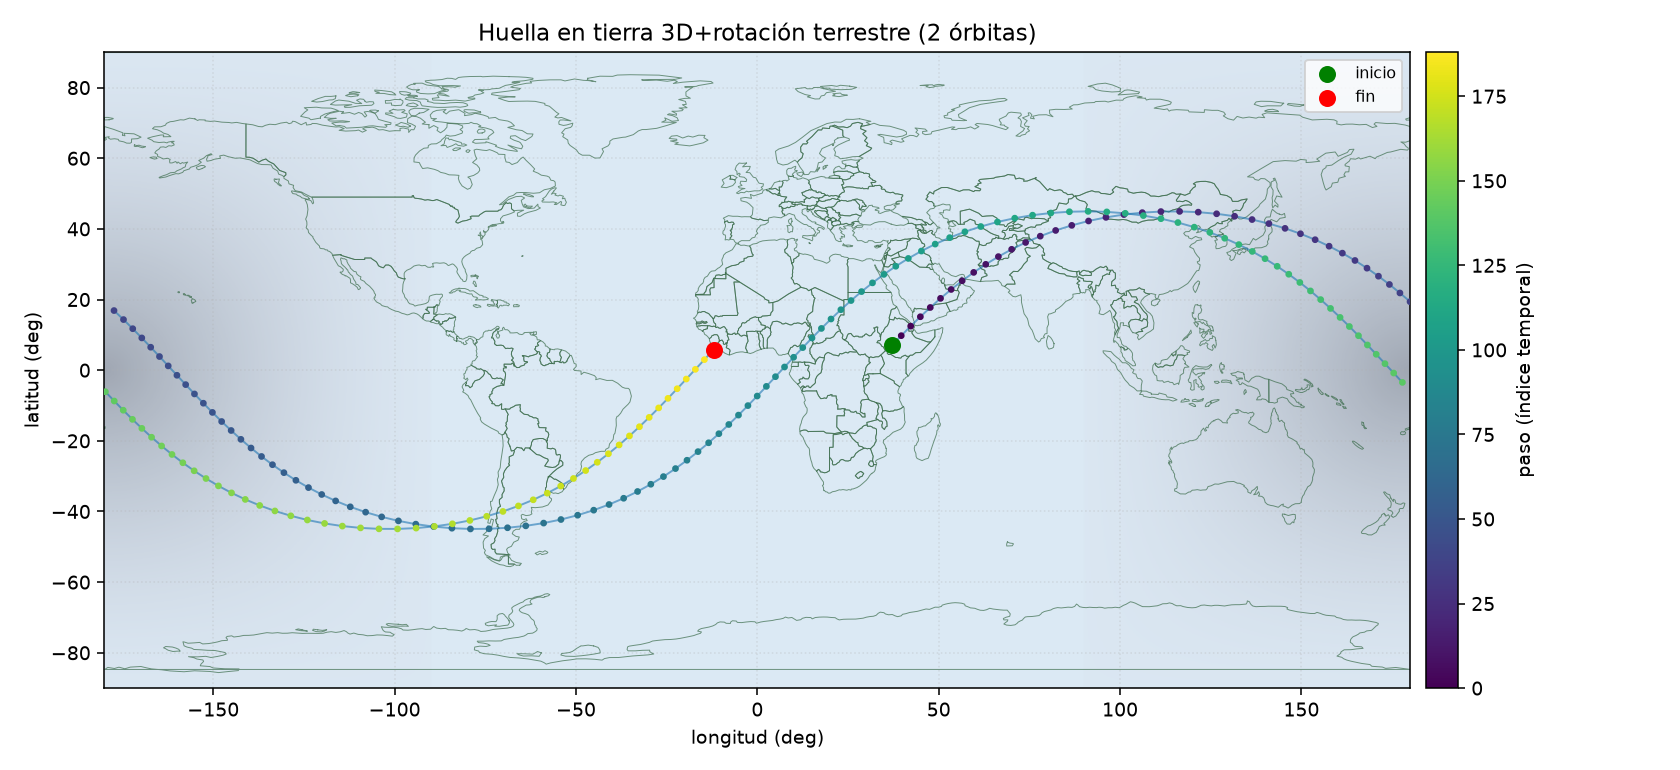
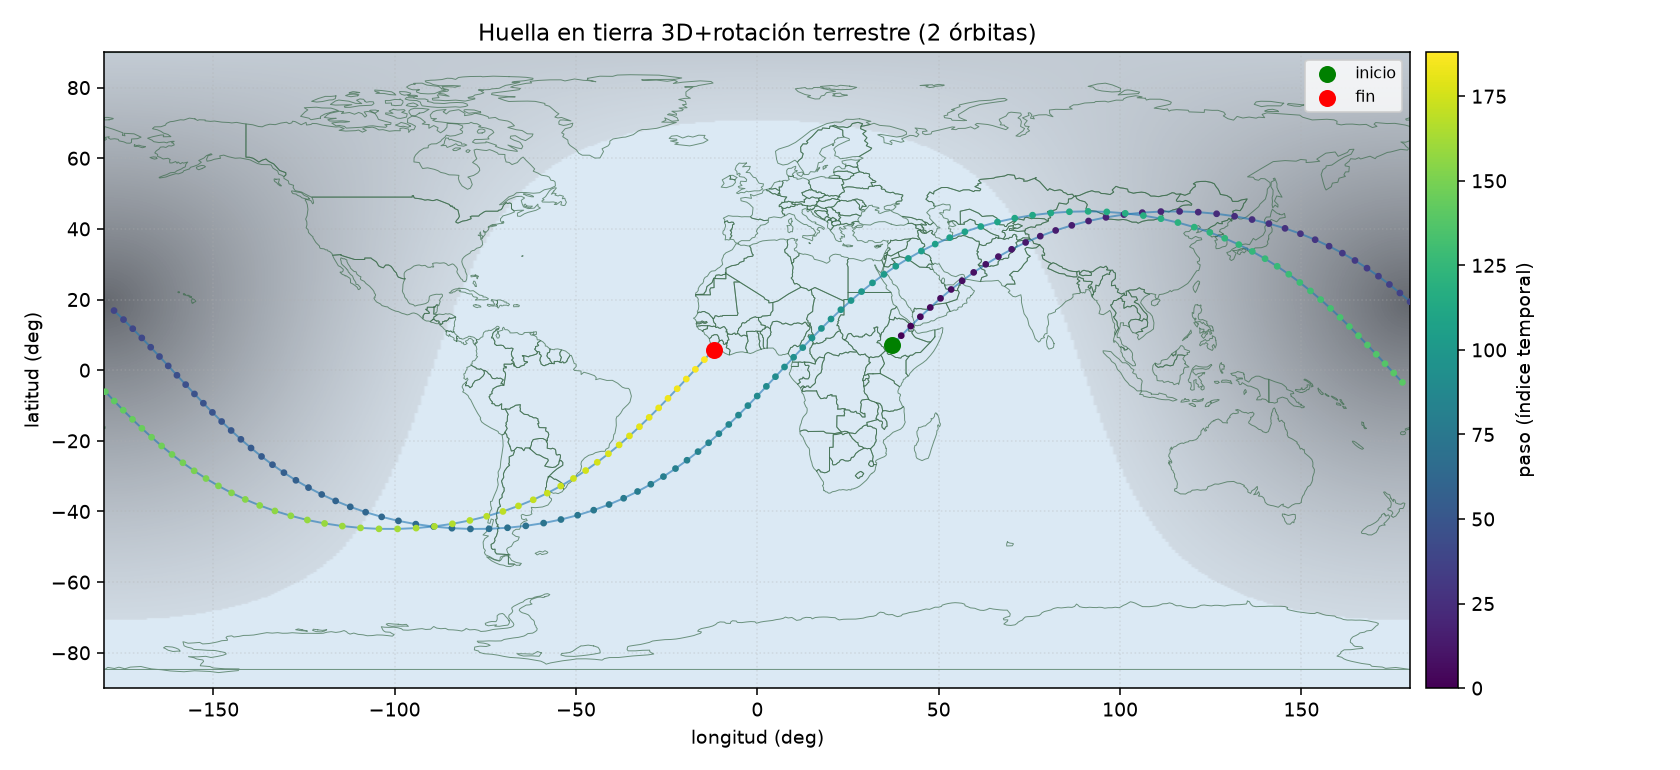
Tilted terminator using solar declination (winter); less blue, clearer day/night

Changed region(s): [[0.0619, 0.0623, 0.8357, 0.5922]]

diff --git a/src/orbitas_rt/viz.py b/src/orbitas_rt/viz.py
@@ -11,6 +11,7 @@ from __future__ import annotations
 
 import json
 import os
+from datetime import datetime
 
 import numpy as np
 import matplotlib
@@ -80,8 +81,22 @@ def _wrap_lon(lon):
     return (lon + 180.0) % 360.0 - 180.0
 
 
+def solar_declination(day_of_year=None):
+    """Declinación solar aproximada (grados) para un día del año.
+
+    Negativa en el invierno del hemisferio norte (nov-feb).
+    """
+    if day_of_year is None:
+        day_of_year = datetime.now().timetuple().tm_yday
+    return float(-23.44 * np.cos(2 * np.pi * (day_of_year + 10) / 365.25))
+
+
 def ground_track(lat_deg, lon_deg, title, path, color="#1f77b4", show_earth=True,
-                 daynight=True, subsolar_lon=0.0, subsolar_lat=0.0):
+                 daynight=True, subsolar_lon=None, subsolar_lat=None):
+    if subsolar_lon is None:
+        subsolar_lon = 0.0
+    if subsolar_lat is None:
+        subsolar_lat = solar_declination()
     """Dibuja una huella en tierra (lat/lon) sobre un mapa equirectangular simple.
 
     lat_deg, lon_deg: arrays en grados. La polilínea se corta en los saltos de
@@ -112,12 +127,12 @@ def ground_track(lat_deg, lon_deg, title, path, color="#1f77b4", show_earth=True
         zenith = np.arccos(cosz)
         night = zenith > (np.pi / 2)
         darkness = np.clip((zenith - np.pi / 2) / (np.pi / 2), 0.0, 1.0)
-        gray = 0.75 - 0.55 * darkness
-        alpha = np.where(night, 0.35 + 0.50 * darkness, 0.0)
+        gray = 0.72 - 0.48 * darkness
+        alpha = np.where(night, 0.30 + 0.45 * darkness, 0.0)
         rgba = np.zeros((N, N, 4))
         rgba[..., 0] = gray
         rgba[..., 1] = gray
-        rgba[..., 2] = gray + 0.05
+        rgba[..., 2] = gray + 0.02
         rgba[..., 3] = alpha
         ax.imshow(rgba, extent=[-180, 180, -90, 90], origin="lower", zorder=1, aspect="auto")
 
@@ -154,7 +169,11 @@ def ground_track(lat_deg, lon_deg, title, path, color="#1f77b4", show_earth=True
 
 
 def ground_track_ortho(lat_deg, lon_deg, title, path, color="#1f77b4",
-                      subsolar_lon=0.0, subsolar_lat=0.0, daynight=True):
+                      subsolar_lon=None, subsolar_lat=None, daynight=True):
+    if subsolar_lon is None:
+        subsolar_lon = 0.0
+    if subsolar_lat is None:
+        subsolar_lat = solar_declination()
     """Huella en tierra en proyección ortográfica (globo), sin distorsión planar.
 
     Evita la distorsión de la proyección plana; muestra el hemisferio visible
@@ -197,12 +216,12 @@ def ground_track_ortho(lat_deg, lon_deg, title, path, color="#1f77b4",
         zenith = np.arccos(cosz)
         night = zenith > (np.pi / 2)
         darkness = np.clip((zenith - np.pi / 2) / (np.pi / 2), 0.0, 1.0)
-        gray = 0.75 - 0.55 * darkness
-        alpha = np.where(night, 0.35 + 0.50 * darkness, 0.0)
+        gray = 0.72 - 0.48 * darkness
+        alpha = np.where(night, 0.30 + 0.45 * darkness, 0.0)
         rgba = np.zeros((N, N, 4))
         rgba[..., 0] = gray
         rgba[..., 1] = gray
-        rgba[..., 2] = gray + 0.05
+        rgba[..., 2] = gray + 0.02
         rgba[..., 3] = alpha
         rgba[~mask, 3] = 0.0
         ax.imshow(rgba, extent=[-1, 1, -1, 1], origin="lower", zorder=2)

diff --git a/examples/run_web_ground_track.py b/examples/run_web_ground_track.py
@@ -27,24 +27,15 @@ lat, lon, alt, t = orbit_ground_track(a_km=6871.0, e=0.0, i_deg=51.6,
 points = [[float(la), float(lo)] for la, lo in zip(lat, lon)]
 
 # Generar imagen día/noche (equirectangular) para overlay en el mapa web
-subsolar_lon = 30.0
-subsolar_lat = 0.0
+subsolar_lon = 0.0
+# declinación solar aproximada para la fecha actual (invierno en hemisferio norte)
+import datetime as _dt
+_doy = _dt.date.today().timetuple().tm_yday
+subsolar_lat = -23.44 * __import__('numpy').cos(2 * __import__('numpy').pi * (_doy + 10) / 365.25)
 N = 360
 lons = np.linspace(-180, 180, N)
-lats = np.linspace(-90, 90, N)
-LON, LAT = np.meshgrid(lons, lats)
 slat = np.radians(subsolar_lat)
 slon = np.radians(subsolar_lon)
-cosz = (np.sin(slat) * np.sin(np.radians(LAT)) +
-        np.cos(slat) * np.cos(np.radians(LAT)) *
-        np.cos(np.radians(LON) - slon))
-cosz = np.clip(cosz, -1.0, 1.0)
-zenith = np.arccos(cosz)
-night = zenith > (np.pi / 2)
-darkness = np.clip((zenith - np.pi / 2) / (np.pi / 2), 0.0, 1.0)
-gray = 0.85 - 0.45 * darkness
-alpha = np.where(night, 0.12 + 0.38 * darkness, 0.0)
-rgba = np.zeros((N // 2, N, 4))
 # resize lats to N//2
 lats2 = np.linspace(-90, 90, N // 2)
 LON2, LAT2 = np.meshgrid(lons, lats2)
@@ -55,12 +46,12 @@ cosz2 = np.clip(cosz2, -1.0, 1.0)
 zenith2 = np.arccos(cosz2)
 night2 = zenith2 > (np.pi / 2)
 darkness2 = np.clip((zenith2 - np.pi / 2) / (np.pi / 2), 0.0, 1.0)
-gray2 = 0.75 - 0.55 * darkness2
-alpha2 = np.where(night2, 0.35 + 0.50 * darkness2, 0.0)
+gray2 = 0.72 - 0.48 * darkness2
+alpha2 = np.where(night2, 0.30 + 0.45 * darkness2, 0.0)
 rgba2 = np.zeros((N // 2, N, 4))
 rgba2[..., 0] = gray2
 rgba2[..., 1] = gray2
-rgba2[..., 2] = gray2 + 0.05
+rgba2[..., 2] = gray2 + 0.02
 rgba2[..., 3] = alpha2
 fig, ax = plt.subplots(figsize=(8, 4))
 ax.imshow(rgba2, extent=[-180, 180, -90, 90], origin="lower", aspect="auto")
